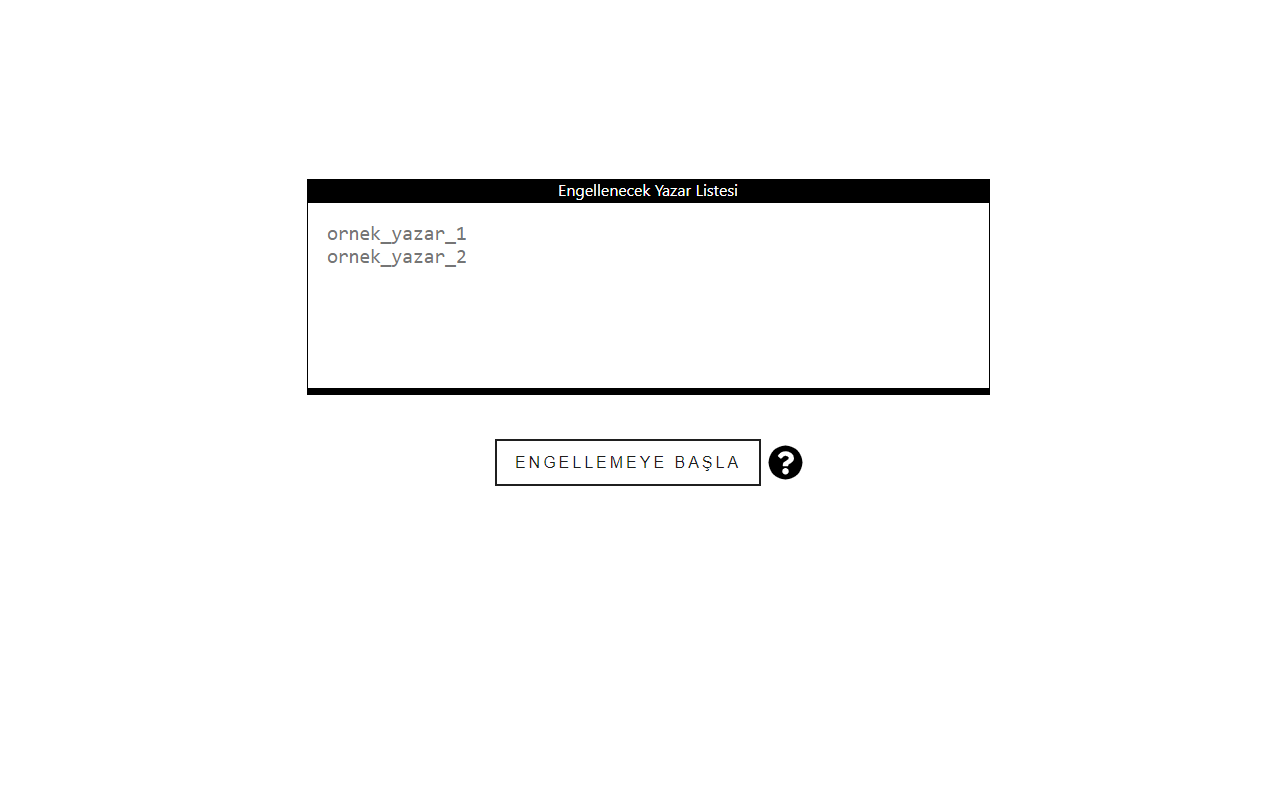
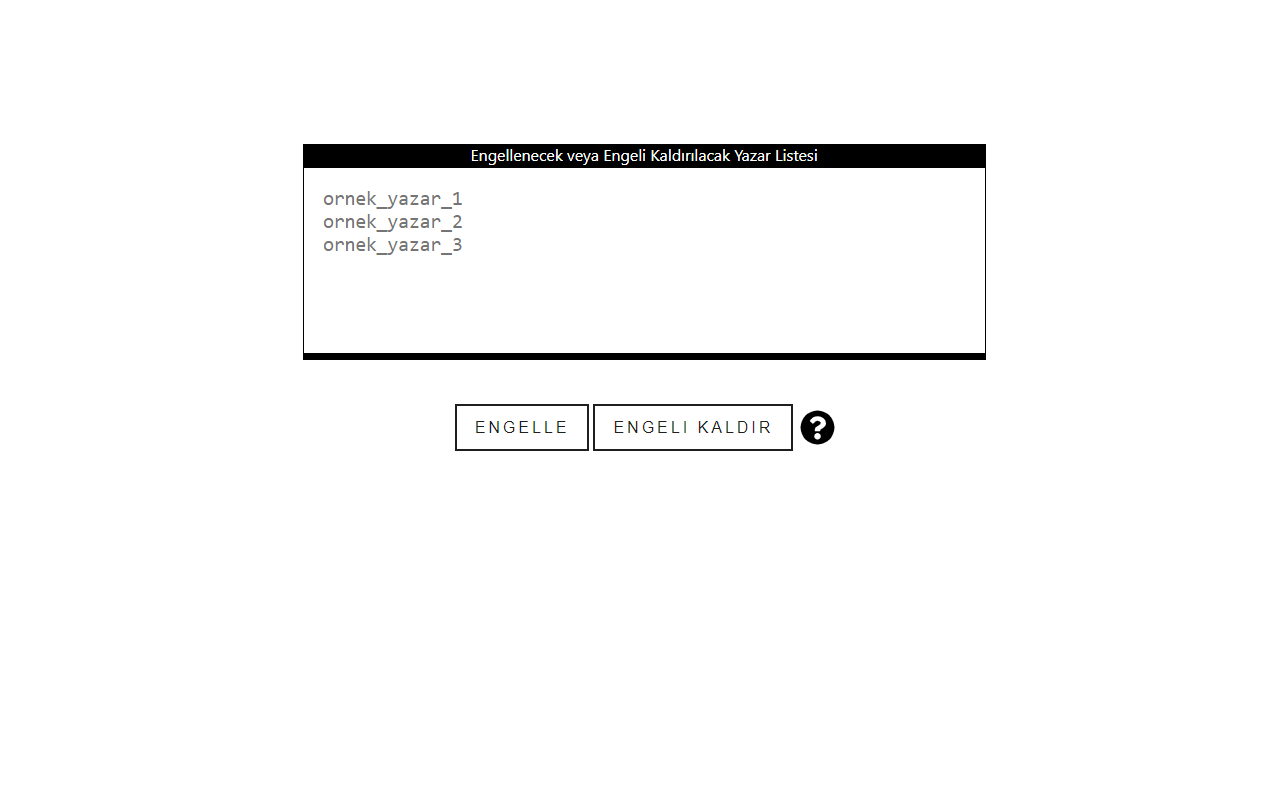
new ss added, readme updated, market text updated.

Changed region(s): [[0.2188, 0.1562, 0.7812, 0.3438], [0.2188, 0.4375, 0.7812, 0.5938]]

diff --git a/README.md b/README.md
@@ -4,23 +4,31 @@
 Ekşisözlük'te toplu olarak engelle/başlıklarını engelle işlemi yapılmasına yardımcı olan Google Chrome eklentisi.
 
 <h3>Nasıl Çalışıyor?</h3>
-İki şekilde:
+Üç şekilde:
 
 - Bir entry'i favorileyen herkes engellenebiliyor.
 
-- Bir liste halinde girilen yazarlar engellenebiliyor.
+- Bir liste halinde girilen yazarlar engellenebiliyor/engeli kaldırılabiliyor.
 
-Kullanıcıdan engellenecek yazarlar alındıktan sonra (entry'i favlayanlar scrape ediliyor ya da manuel olarak elle bir liste giriliyor) listedeki hesaplar sırasıyla ziyaret edilerek engelleniyor. 
+- Engellenen tüm yazarların engeli kaldırılabiliyor.
+
+Kullanıcıdan engellenecek/engeli kaldırılacak yazarlar alındıktan sonra listedeki hesaplar sırasıyla ziyaret edilerek engel/engeli kaldırma işlemi gerçekleştiriliyor. 
 
 İşlemler yeni açılan bir tab içinde gerçekleşiyor, engelleme devam ederken başka tablarda gezinilebiliyor ve sonunda engel için açılan tab kendiliğinden kapanıyor. 
 
 Ayrıca kullanıcıya kaç yazarın başarıyla engellendiği de bir uyarı ile aktarılıyor.
 
-<h3>Neden Böyle Bir Uygulama Geliştirdin?</h3>
+<h3>Neden Böyle Bir Uygulama Geliştirildi?</h3>
 
-Uzun zamandır bazı yazarların liste yapıp paylaştığını görüyordum. Bu işi kolayca eklenti ile yapabiliriz diye düşündüm.
+Uzun zamandır bazı yazarların liste yapıp paylaştığını görüyordum. Bu işi kolayca bir eklenti ile yapabiliriz diye düşündüm.
 
-Şunu da eklemekte fayda var ki Ekşi Engel'i gönüllü olarak geliştirdim bundan dolayı herhangi bir reklam içermiyor, bilgilerinizi toplamıyor ya da başka ticari bir amacı bulunmuyor.
+Şunu da eklemekte fayda var ki Ekşi Engel'i gönüllü olarak geliştirdim bundan dolayı herhangi bir reklam içermiyor ya da başka ticari bir amacı bulunmuyor.
+
+<h3>Kişisel Verilerimiz?</h3>
+
+v1.3'ten itibaren ayarlar menüsünden izin verildiği müddetçe Ekşi Sözlük kullanıcı adı ve engellenen kullanıcıların listesi Ekşi Engel sunucularına gönderiliyor. 
+
+Bu verilerin daha sonra en çok engellenen yazarların bilgisini elde etmek ve bu yazarları da eklenti üzerinden engellemek maksadı ile kullanılması planlanıyor.
 
 <h3>Linkler ve Görseller</h3>
 
